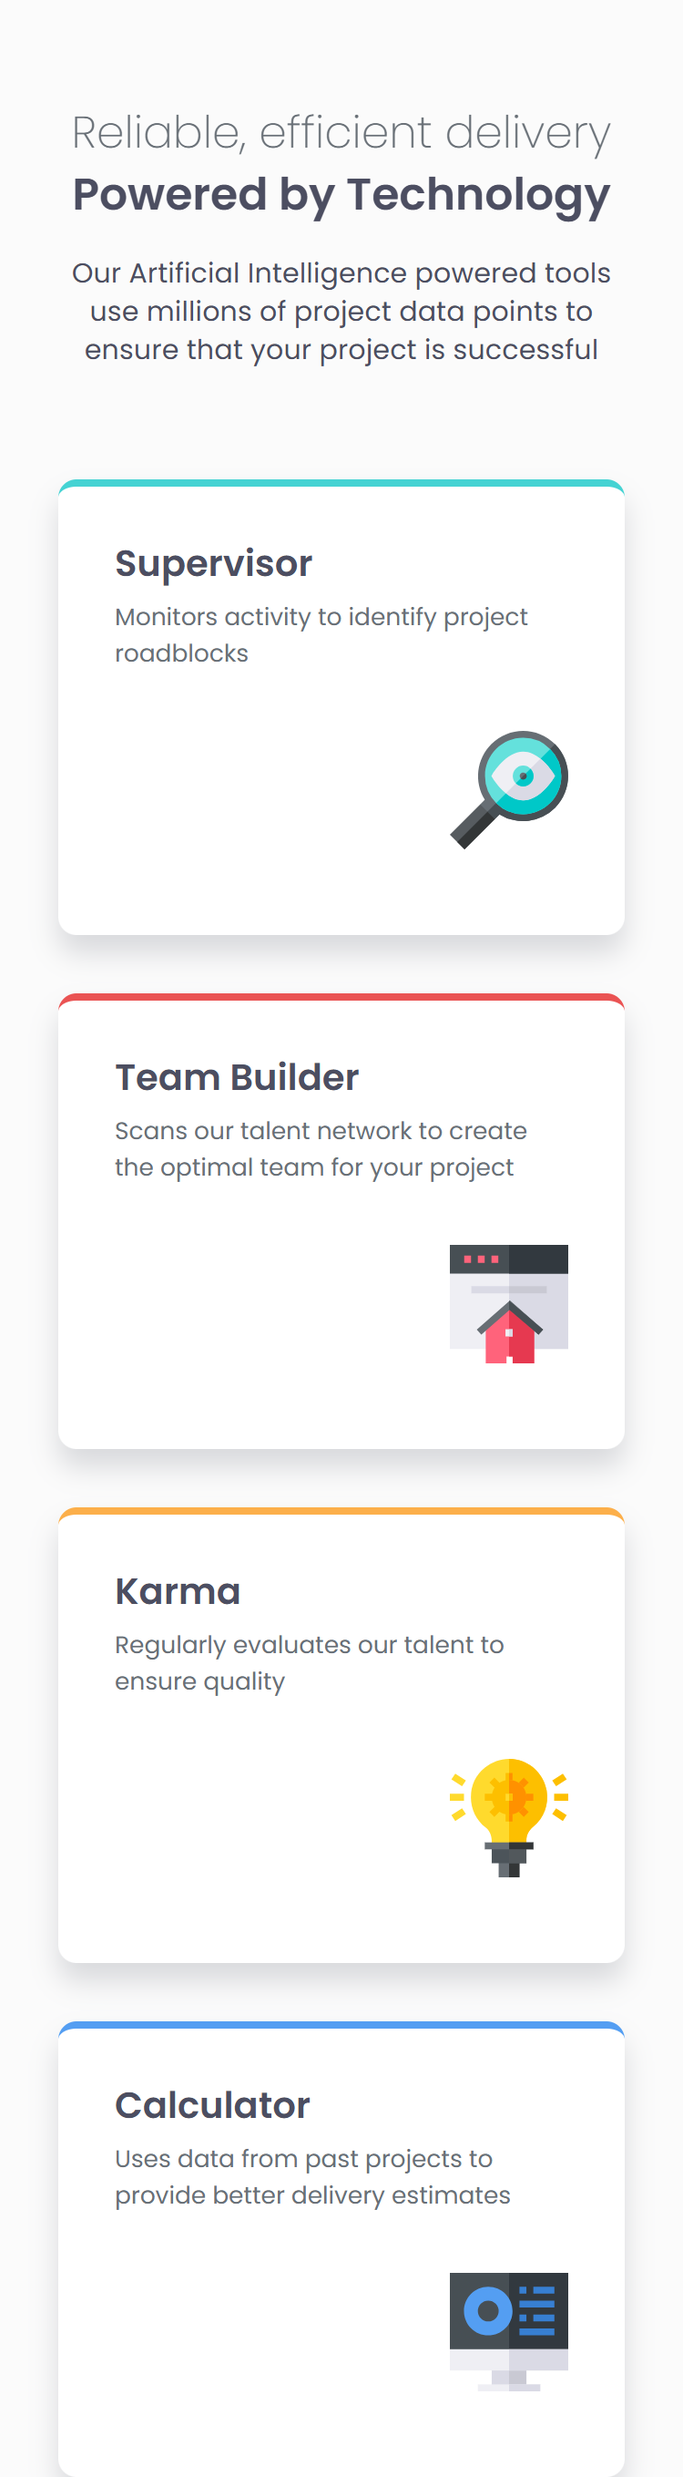
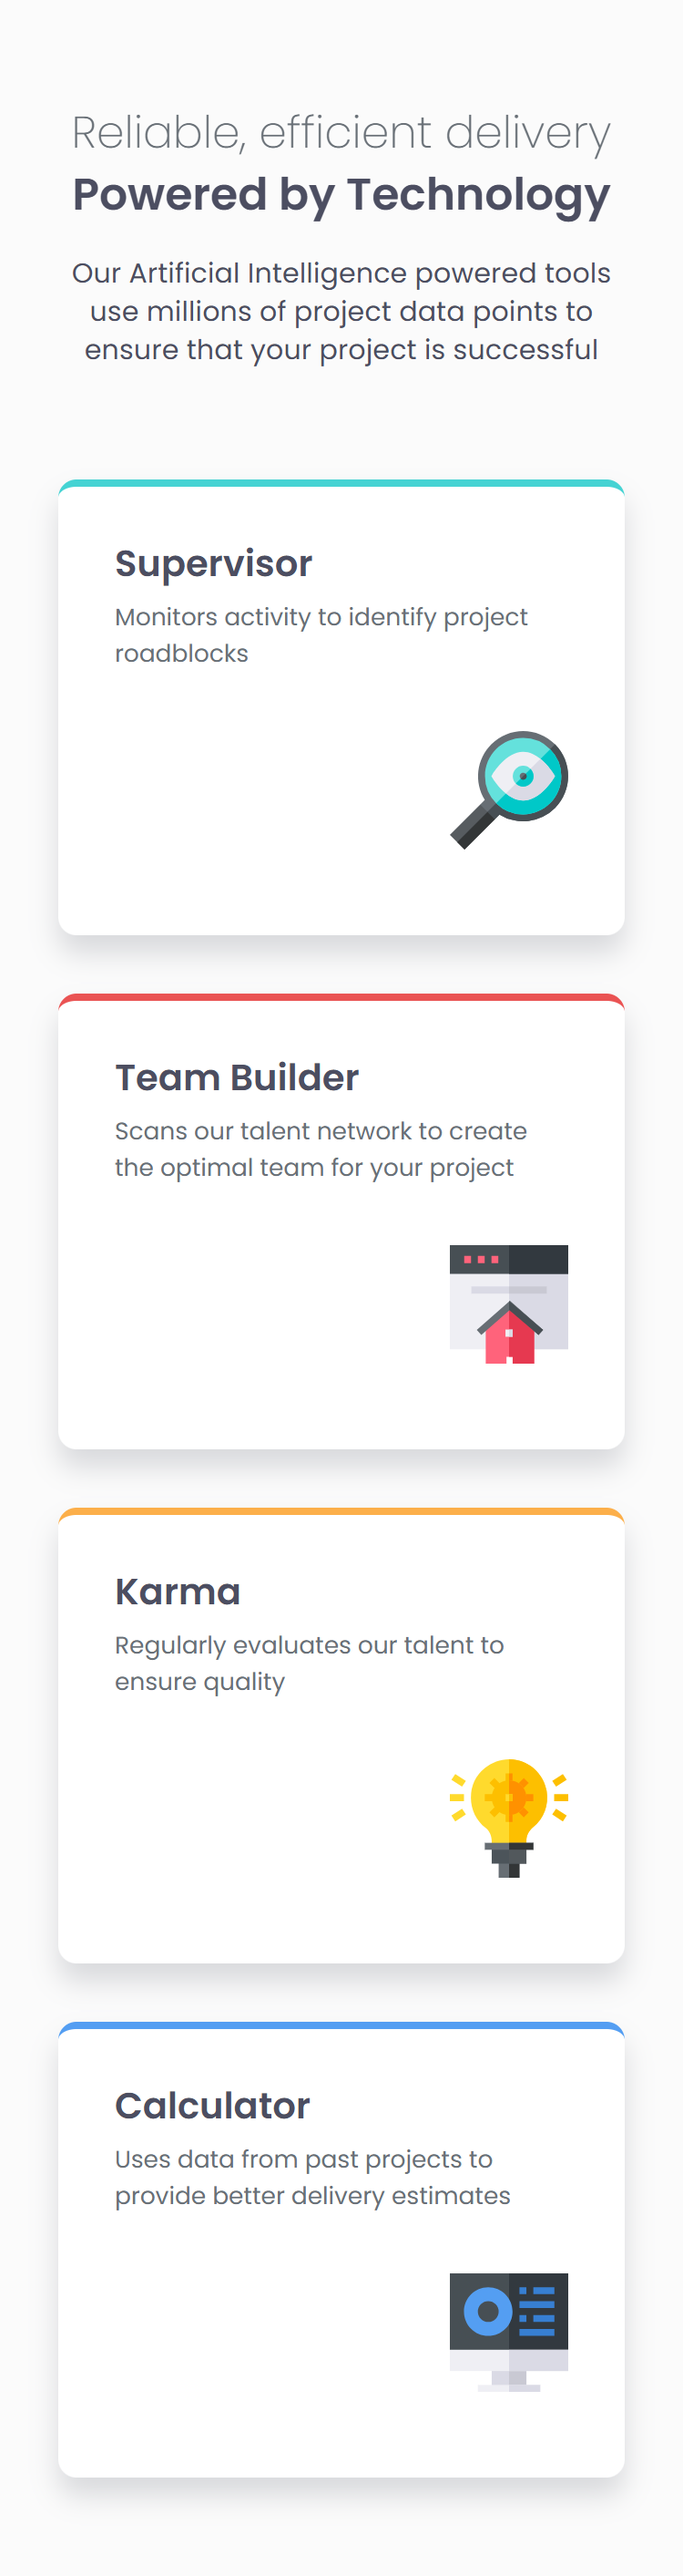
fixing the paddings

Changed region(s): [[0.092, 0.1854, 0.92, 0.989], [0.092, 0.0309, 0.8893, 0.1545]]

diff --git a/styles.css b/styles.css
@@ -47,12 +47,11 @@ body {
   justify-content: center;
   align-items: center;
   min-block-size: 100vh;
-  font-family: 'Poppins';
+  font-family: 'Poppins', sans-serif;
   background-color: var(--background-color);
 }
 
 main {
-  margin-block-start: clamp(1.4375rem, 0.6230rem + 3.4742vw, 3.75rem);
   flex: 1 1 0;
   min-inline-size: 350px;
   max-inline-size: 1175px;
@@ -64,7 +63,8 @@ main {
   justify-content: center;
   align-items: center;
   color: var(--Grey-400);
-  padding-block-start: clamp(1.9375rem, 1.7392rem + 0.8451vw, 2.5rem);
+  padding-block-start: clamp(3.375rem, 2.3621rem + 4.3192vw, 6.25rem);
+  padding-block-end: clamp(3.375rem, 1.2623rem + 9.0141vw, 9.375rem);
   padding-inline: 2rem;
   text-align: center;
 }
